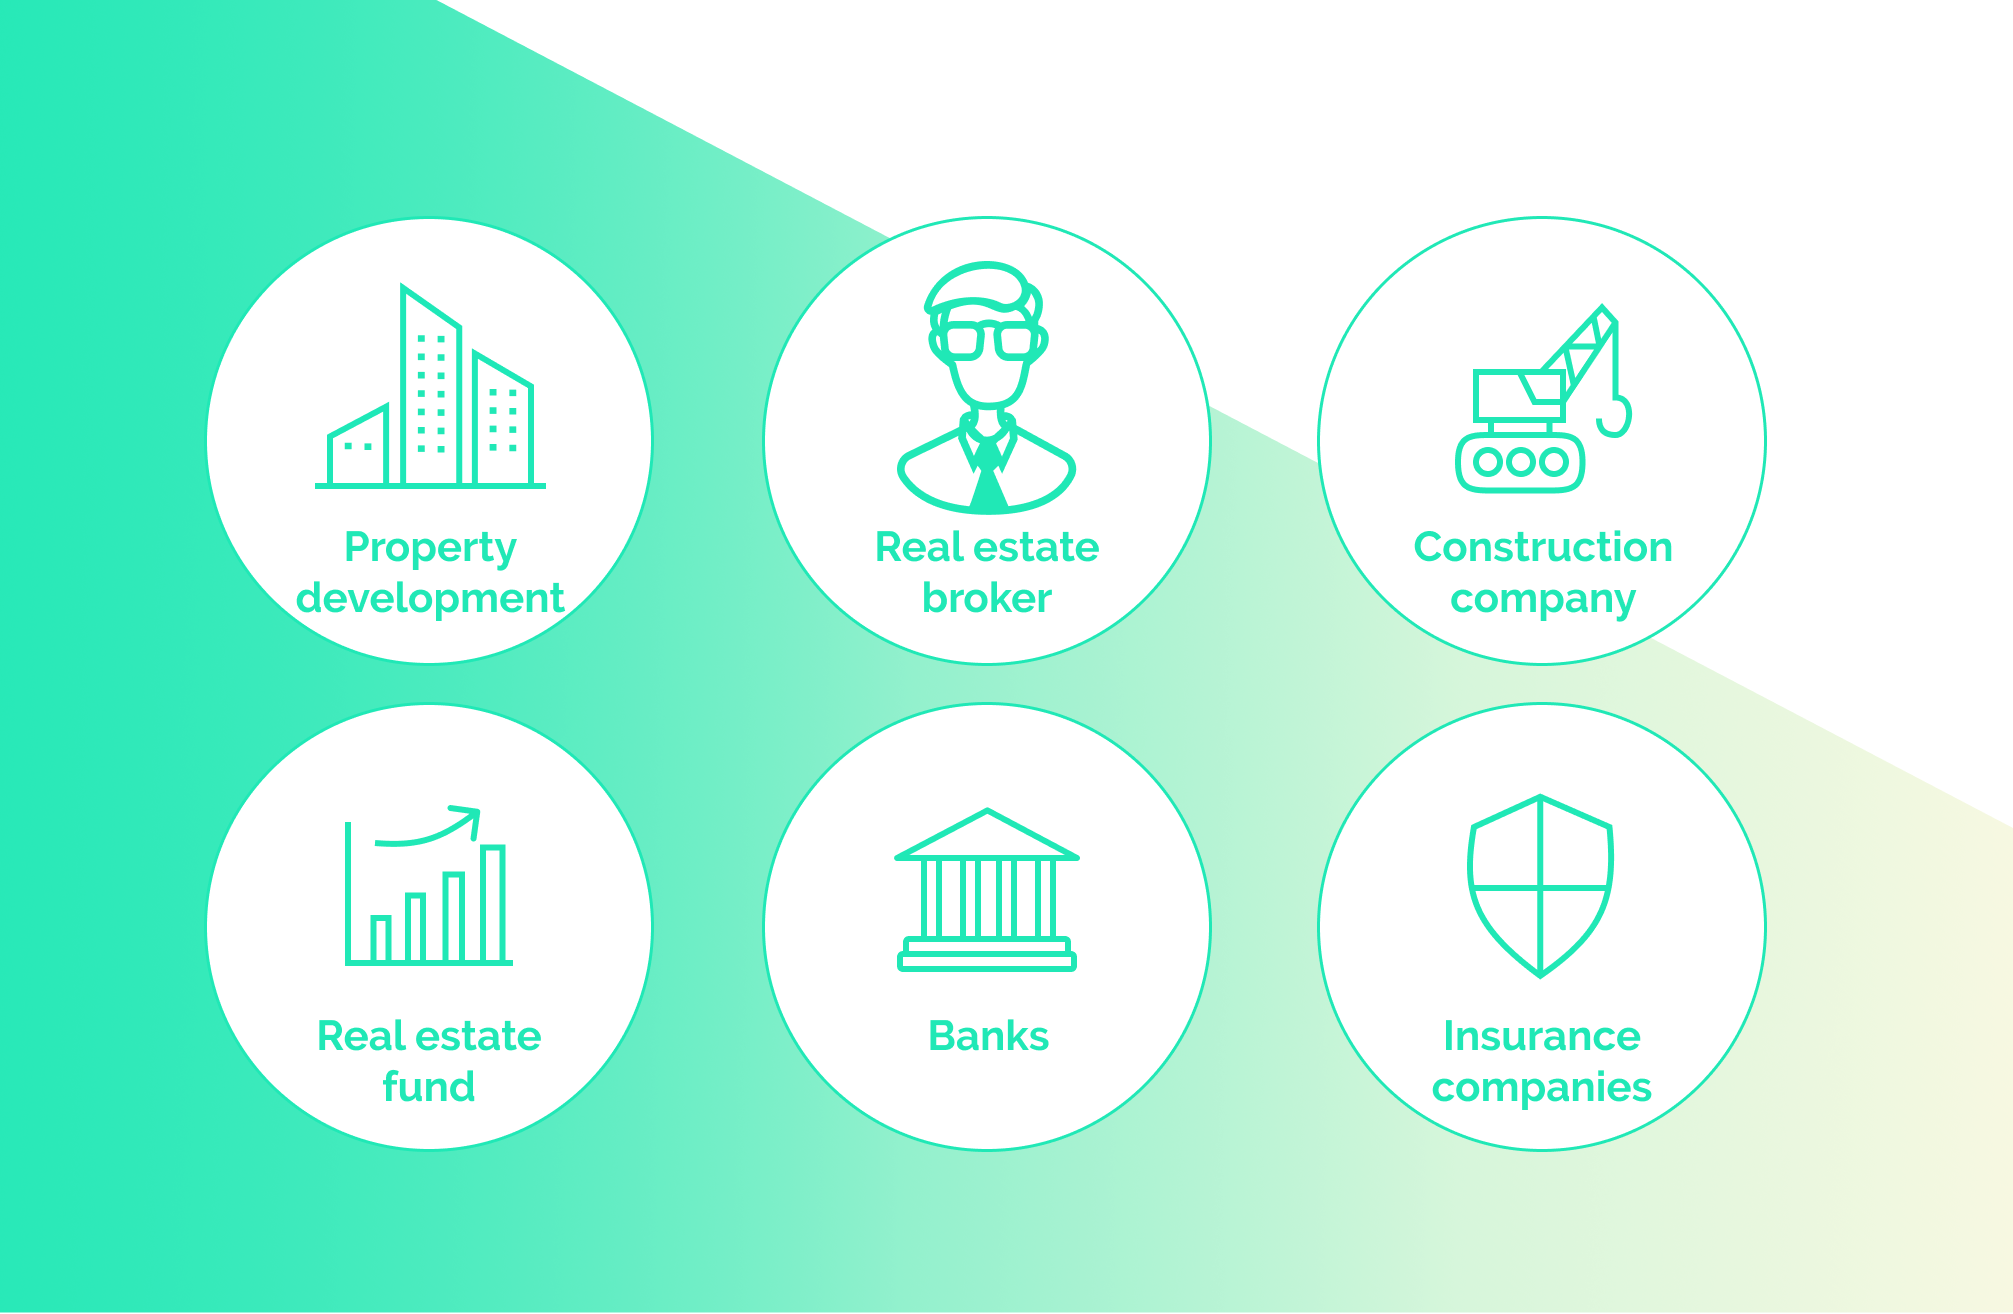
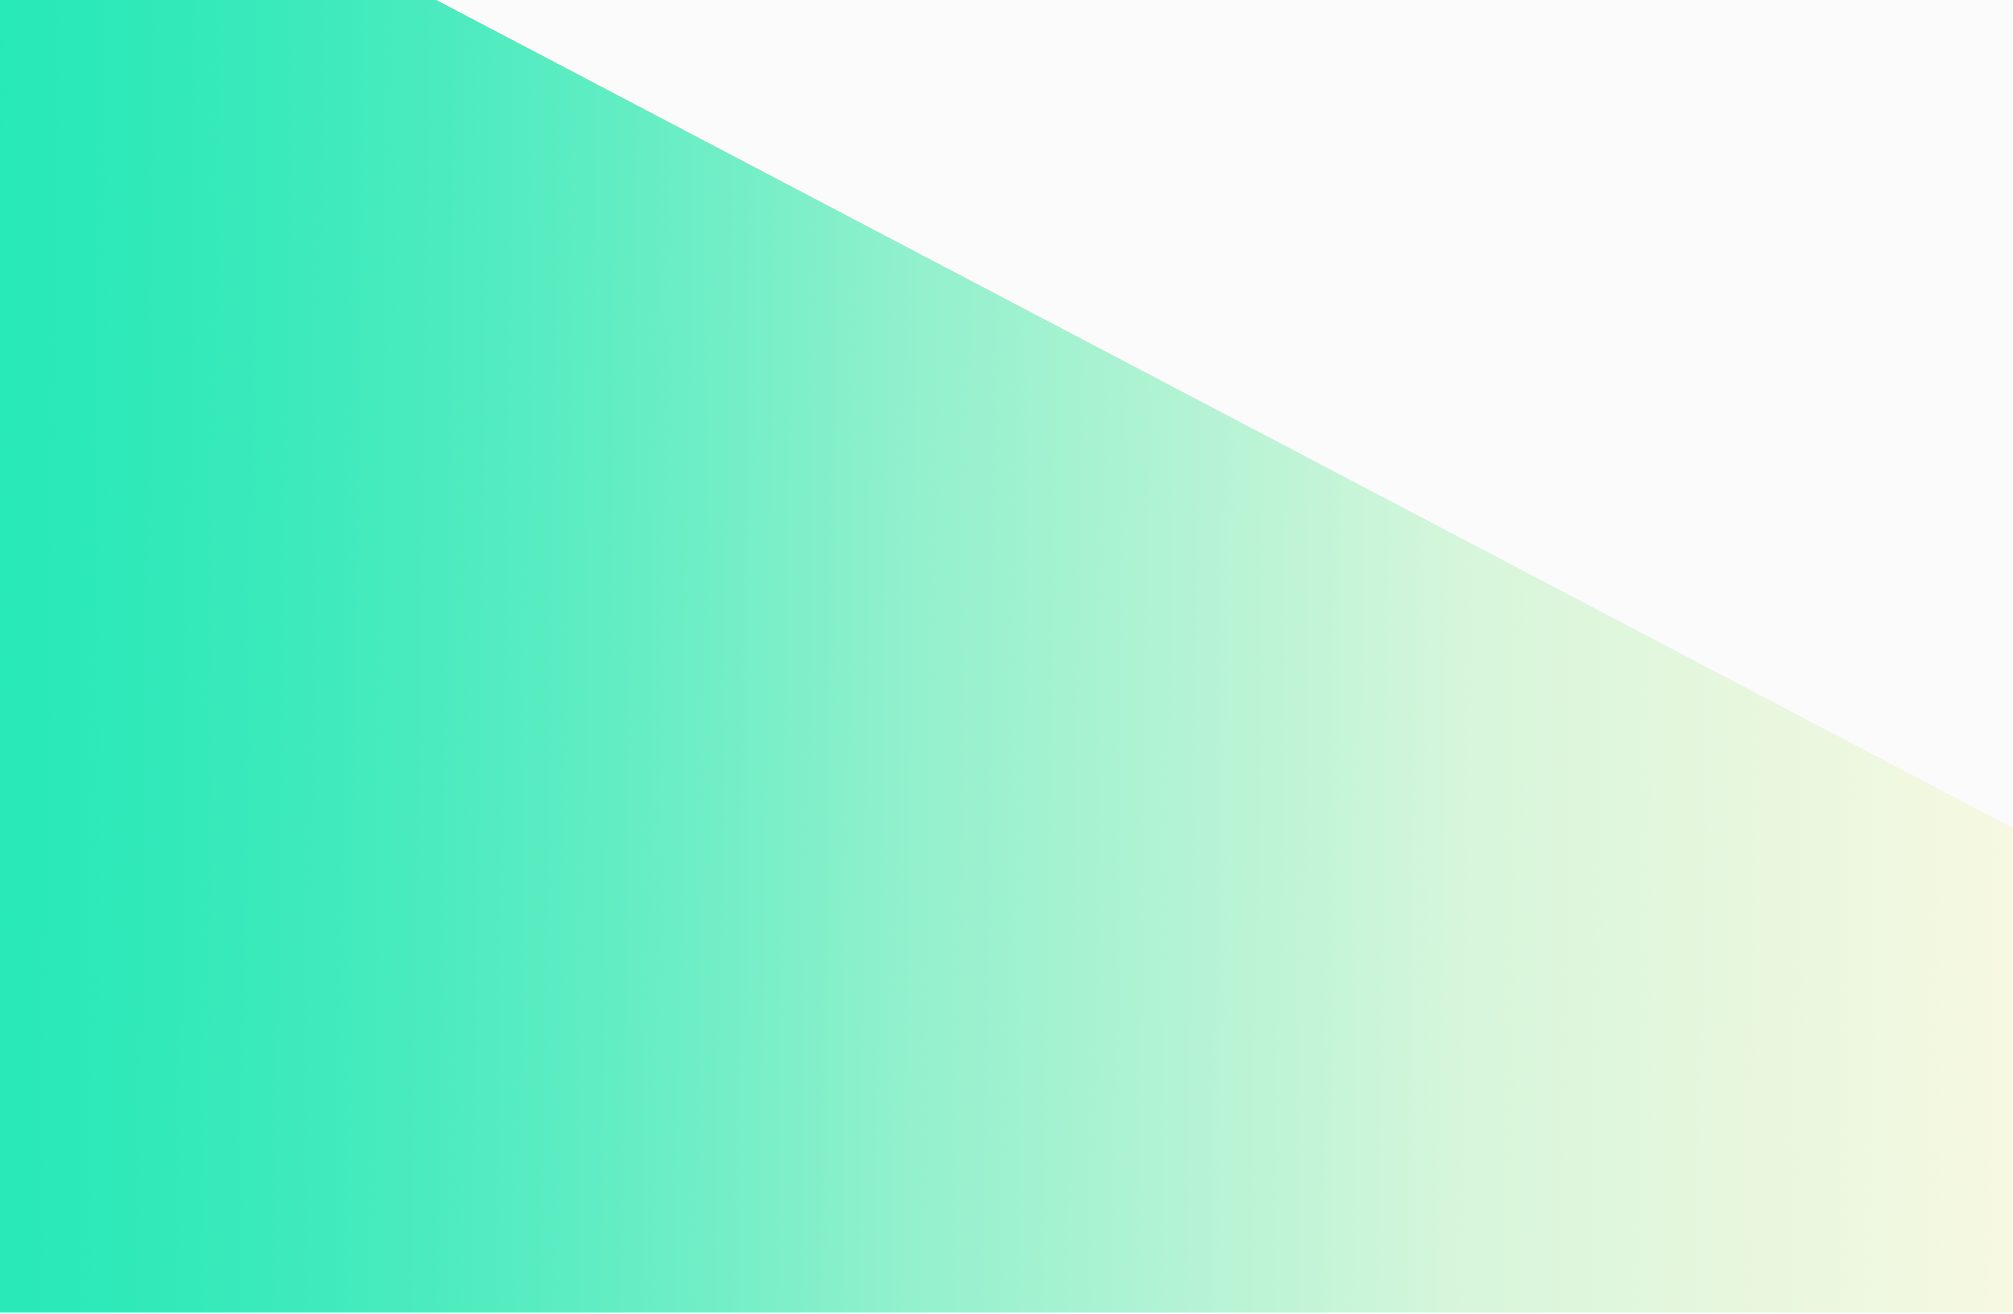
Added animate css and waypoint on landing page

diff --git a/app/assets/stylesheets/pages/_home.scss b/app/assets/stylesheets/pages/_home.scss
@@ -72,24 +72,24 @@
 }
 
 .landing-products {
-  min-height: 650px;
+  min-height: 450px;
   background-color: #FBFBFB;
-  img {
-    max-width: 90%;
-    position: relative;
-    z-index: 10;
-  }
-  // .abstract {
-  //   background: linear-gradient(324.25deg, #9CFFEF 0%, #DCE5FF 74.16%);
-  //   height: 400px;
-  //   width: 400px;
-  //   position: absolute;
-  //   left: 0;
-  //   top: 0;
-  //   transform: rotate(-45deg);
-  // }
   .landing-section-content, .landing-section-media {
-    height: 650px;
+    height: 450px;
+  }
+  #landing-products-media {
+    background-position: center;
+    background-repeat: no-repeat;
+    background-size: 90%;
+    padding: 50px;
+    img {
+      max-width: 120px;
+      margin: 20px 0px;
+      -webkit-animation-duration: 3s;
+      -moz-animation-duration: 3s;
+      -o-animation-duration: 3s;
+      -ms-animation-duration: 3s;
+    }
   }
 }
 

diff --git a/app/javascript/shared/waypoint.js b/app/javascript/shared/waypoint.js
@@ -1,10 +1,15 @@
 import waypoints from 'waypoints/lib/noframework.waypoints.js';
 
+function addAnimation(item) {
+  item.classList.remove('hidden');
+  item.classList.add('animated', 'fadeIn');
+}
+
 const productsWaypoint = new Waypoint({
-  element: document.querySelector('.landing-products'),
+  element: document.querySelector('.landing-studio'),
   handler: function() {
-    document.querySelector('.landing-products img').classList.remove('hidden');
-    document.querySelector('.landing-products img').classList.add('animated', 'slideInRight');
+    const images = Array.from(document.querySelectorAll('.landing-products img'));
+    images.forEach(image => addAnimation(image));
   }
 })
 
